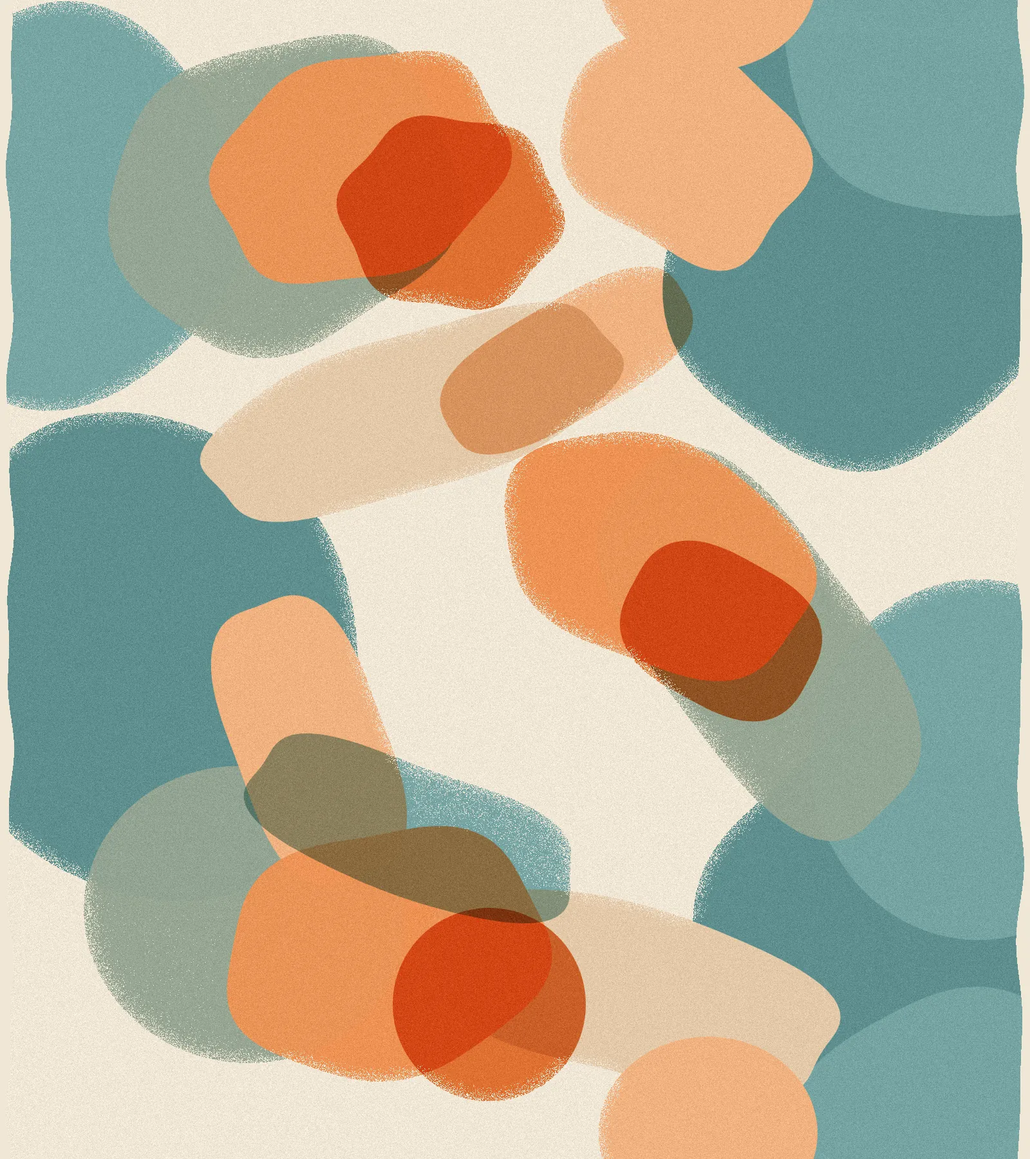
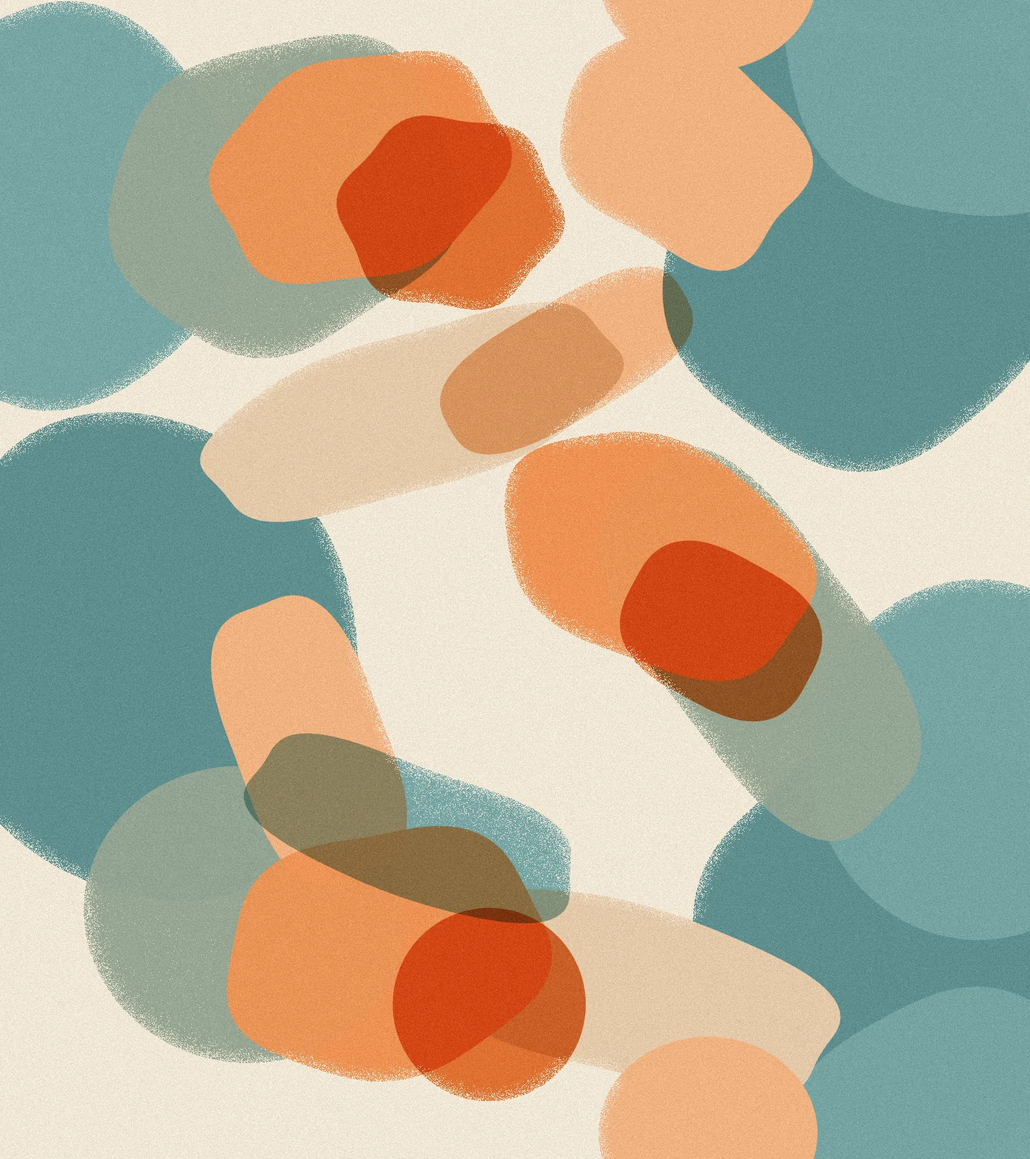
Lighten the background sides, add overlapping teal and orange shapes, fix the border

diff --git a/site.css b/site.css
@@ -517,6 +517,7 @@ html:has(body.site) { background: #f1e7d6; }
     background-position: 50% 0;
     background-size: max(100vw, 900px) auto;
 }
+.site-bg::after { content: ""; position: absolute; inset: 0; background: url("images/site/bg-frame.svg") 0 0 / 100% 100% no-repeat; }
 .site-bg .bg-back { background-image: url("images/site/bg-back.webp"); }
 .site-bg .bg-front { background-image: url("images/site/bg-front.webp"); }
 /* Wide screens: the column sits in the beige middle so the shapes frame it */
